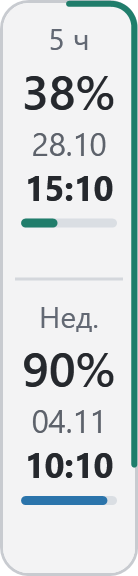
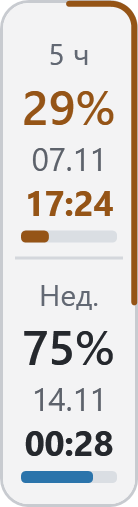
Fix ultra top spacing and refresh bilingual documentation for 1.7.6
Give bare ultra quota bars equal 8 px top and bottom insets. Preserve the reset extension height, dim-only stale presentation and compact layout.

Refresh the Russian and English README descriptions and add 20 separate production-rendered comparison images covering reset, credit and indicator combinations. Use current layout dimensions in the repeatable documentation renderer.

Validation: 64 focused native, diagnostic, server, update and package checks passed, as did standalone geometry checks. Both README files were rendered through GitHub Markdown and checked for loaded images. The release archive matches the user-tested installed build.

diff --git a/tools/render-previews.cs b/tools/render-previews.cs
@@ -3,6 +3,7 @@ using System.Collections.Generic;
 using System.Globalization;
 using System.IO;
 using System.Reflection;
+using System.Web.Script.Serialization;
 using System.Windows;
 using System.Windows.Controls;
 using System.Windows.Media;
@@ -19,7 +20,7 @@ class DocumentationPreviews {
   static void Save(BitmapSource image,string file){var encoder=new PngBitmapEncoder();encoder.Frames.Add(BitmapFrame.Create(image));using(var output=File.Create(file))encoder.Save(output);}
   static BitmapSource Render(Visual visual,double width,double height,int scale){var image=new RenderTargetBitmap((int)(width*scale),(int)(height*scale),96*scale,96*scale,PixelFormats.Pbgra32);image.Render(visual);return image;}
   static BitmapSource RenderElement(FrameworkElement visual,double width,double height){visual.Measure(new Size(width,height));visual.Arrange(new Rect(0,0,width,height));visual.UpdateLayout();return Render(visual,width,height,3);}
-  static object Row(string label,int value,string date,string time){return new Dictionary<string,object>{{"period",label},{"value",value+"%"},{"remaining",value},{"date",date},{"time",time},{"tone","normal"},{"marker",""}};}
+  static object Row(string label,int value,string date,string time){return new Dictionary<string,object>{{"period",label},{"value",value+"%"},{"remaining",value},{"date",date},{"time",time},{"tone",value<=30?"warning":"normal"},{"marker",""}};}
   static void Text(DrawingContext dc,string value,double x,double y,double size,Brush color,bool bold=false){var text=new FormattedText(value,CultureInfo.InvariantCulture,FlowDirection.LeftToRight,new Typeface(new FontFamily("Segoe UI"),FontStyles.Normal,bold?FontWeights.SemiBold:FontWeights.Normal,FontStretches.Normal),size,color,1);dc.DrawText(text,new Point(x,y));}
   static BitmapSource Context(BitmapSource panel,bool light){
     var visual=new DrawingVisual();using(var dc=visual.RenderOpen()){
@@ -30,7 +31,8 @@ class DocumentationPreviews {
       Text(dc,"Codex",72,28,23,text,true);Text(dc,"⌕",420,25,26,muted);Text(dc,"Новый чат",78,96,17,text);Text(dc,"Закреплённые",72,155,15,muted,true);Text(dc,"Проекты",72,205,15,muted,true);Text(dc,"Недавние",72,255,15,muted,true);
       Text(dc,"Рабочий чат",78,298,16,text);Text(dc,"Идеи проекта",78,339,16,text);Text(dc,"Заметки",78,380,16,text);
       dc.DrawLine(new Pen(Brush(light?"#DADBDE":"#34373C"),1),new Point(492,0),new Point(492,650));
-      dc.DrawImage(panel,new Rect(3,374,46,192));dc.DrawEllipse(Brush(light?"#CED6DD":"#647583"),null,new Point(26,610),12,12);Text(dc,"M",20,600,14,Brush("#FFFFFF"),true);
+      double panelHeight=panel.PixelHeight*46.0/panel.PixelWidth;
+      dc.DrawImage(panel,new Rect(3,566-panelHeight,46,panelHeight));dc.DrawEllipse(Brush(light?"#CED6DD":"#647583"),null,new Point(26,610),12,12);Text(dc,"M",20,600,14,Brush("#FFFFFF"),true);
       Text(dc,"Панель остаётся рядом с чатом",75,558,15,text,true);Text(dc,"Схема размещения · демонстрационные значения",75,590,11,muted);
     }return Render(visual,580,650,2);
   }
@@ -44,17 +46,31 @@ class DocumentationPreviews {
     }return Render(visual,1024,88,2);
   }
   [STAThread]static int Main(string[] args){try{
-    string output=Path.GetFullPath(args[0]),temporary=Path.GetFullPath(args[1]);Directory.CreateDirectory(output);Directory.CreateDirectory(temporary);
+    string output=Path.GetFullPath(args[0]),temporary=Path.GetFullPath(args[1]);Directory.CreateDirectory(output);Directory.CreateDirectory(temporary);Directory.CreateDirectory(Path.Combine(output,"panels"));int previews=0;
     foreach(string theme in new[]{"dark","light"}){
       BitmapSource full=null;
-      foreach(string mode in new[]{"full","compact","ultra"}){
-        string own=Path.Combine(temporary,theme+"-"+mode);Directory.CreateDirectory(own);File.WriteAllText(Path.Combine(own,"settings.json"),"{\"language\":\"ru\",\"themeMode\":\""+theme+"\",\"displayMode\":\""+mode+"\",\"indicatorMode\":\"both\",\"contourWindow\":\"short\",\"backgroundTransparency\":0,\"taskbarEnabled\":false,\"autoStartEnabled\":false}");
+      foreach(string content in new[]{"limits","resets","credits","both"})foreach(string mode in new[]{"full","compact","ultra"})foreach(string indicator in mode=="ultra"?new[]{"both"}:new[]{"both","outline"}){
+        bool selected=mode=="full"?(indicator=="both"?theme=="dark":theme=="light"):mode=="compact"?(indicator=="both"?theme=="light":theme=="dark"):((content=="limits"||content=="resets")?theme=="dark":theme=="light");
+        bool legacy=content=="limits"&&indicator=="both";
+        if(!selected&&!legacy)continue;
+        bool resets=content=="resets"||content=="both",credits=content=="credits"||content=="both";
+        string key=content+"-"+mode+"-"+indicator+"-"+theme,own=Path.Combine(temporary,key);Directory.CreateDirectory(own);
+        var settings=new Dictionary<string,object>{{"language","ru"},{"themeMode",theme},{"displayMode",mode},{"indicatorMode",indicator},{"contourWindow","short"},{"sidebarBackgroundOpacity",100},{"showResets",resets},{"showCredits",credits},{"taskbarEnabled",false},{"liveTrayIcon",false},{"autoStartEnabled",false}};
+        File.WriteAllText(Path.Combine(own,"settings.json"),new JavaScriptSerializer().Serialize(settings));
         var window=new OverlayWindow(Path.Combine(own,"state.json"),new ThemeResolver(Path.Combine(own,"app.toml"),delegate{return false;}),delegate{return false;},delegate{return null;});
-        try{Call(window,"StopTracking");Call(window,"Apply",new Dictionary<string,object>{{"rows",new object[]{Row("5 ч",38,"28.10","15:10"),Row("Нед.",90,"04.11","10:10")}}});Call(window,"SelectMode",mode);var image=RenderElement(Field<Grid>(window,"surface"),46,mode=="full"?192:mode=="compact"?100:32);Save(image,Path.Combine(output,(mode=="ultra"?"ultracompact":mode)+"-"+theme+".png"));if(mode=="full")full=image;}finally{window.Close();}
+        try{
+          Call(window,"StopTracking");
+          var resetData=new Dictionary<string,object>{{"availableCount",3},{"date","12.11.2026"},{"time","18:30"},{"daysRemaining",5},{"tone","warning"},{"stale",false}};
+          var creditData=new Dictionary<string,object>{{"balance","250"},{"display","250"},{"unlimited",false},{"hasCredits",true},{"tone","normal"},{"stale",false}};
+          Call(window,"Apply",new Dictionary<string,object>{{"rows",new object[]{Row("5 ч",29,"07.11","17:24"),Row("Нед.",75,"14.11","00:28")}},{"resets",resetData},{"credits",creditData}});Call(window,"SelectMode",mode);Call(window,"SelectFullProgress",indicator);
+          var image=RenderElement(Field<Grid>(window,"surface"),46,Layout.HeightForMode(mode,resets,credits));
+          if(selected){Save(image,Path.Combine(output,"panels",key+".png"));previews++;}
+          if(legacy){Save(image,Path.Combine(output,(mode=="ultra"?"ultracompact":mode)+"-"+theme+".png"));if(mode=="full")full=image;}
+        }finally{window.Close();}
       }
       var taskbar=new TaskbarWindow(delegate{return null;});try{taskbar.Configure(false,"right",theme=="light"?ThemePalette.Light:ThemePalette.Dark,50);taskbar.ApplyRows("38%","90%","normal","normal",false);var image=RenderElement(Field<Border>(taskbar,"surface"),48,32);Save(Taskbar(image,theme=="light"),Path.Combine(output,"taskbar-"+theme+".png"));}finally{taskbar.Dispose();}
       Save(Context(full,theme=="light"),Path.Combine(output,"sidebar-"+theme+".png"));
     }
-    Console.WriteLine("Rendered 10 documentation previews from production controls using isolated demonstration data.");return 0;
+    Console.WriteLine("Rendered "+previews+" comparison panels and 10 placement/legacy previews from production controls using isolated demonstration data.");return 0;
   }catch(Exception error){Console.Error.WriteLine(error);return 1;}}
 }

diff --git a/overlay/Layout.cs b/overlay/Layout.cs
@@ -61,9 +61,9 @@ namespace QuotaOverlay {
       foreach(var span in spans){if(span.Top-cursor>=result.Height){double candidate=Math.Max(cursor,Math.Min(span.Top-result.Height,desired)),difference=Math.Abs(candidate-desired);if(difference<distance){distance=difference;best=candidate;}}cursor=Math.Max(cursor,span.Bottom);}
       result.Visible=!Double.IsPositiveInfinity(distance);if(result.Visible)result.Y=top+best;return result;
     }
-    public const double PanelWidth=46, PanelHeight=169, CompactHeight=115, UltraHeight=29, BottomClearance=110;
+    public const double PanelWidth=46, PanelHeight=169, CompactHeight=115, UltraHeight=32, BottomClearance=110;
     public const double StaleHeaderHeight=10;
-    public static double HeaderHeight(string mode) {return mode=="ultra"?0:StaleHeaderHeight;}
+    public static double HeaderHeight(string mode) {return mode=="ultra"?3:StaleHeaderHeight;}
     public static double ResetsHeight(string mode) {return mode=="ultra"?22:mode=="compact"?41:64;}
     public static double CreditsHeight(string mode) {return mode=="ultra"?24:mode=="compact"?38:40;}
     public static double HeightForMode(string mode,bool showResets=false,bool showCredits=false,int staleRows=0) {

diff --git a/tests/overlay-native.cs b/tests/overlay-native.cs
@@ -748,6 +748,7 @@ class OverlayNativeTest {
       }
       var marker=Field<TextBlock[]>(window,"markers")[1];if(marker.Visibility==Visibility.Visible)last=Math.Max(last,ContentBounds(marker,panel).Bottom);
       Check(Math.Abs(panel.ActualHeight-last-8)<.05,"last visible content must leave exactly 8 DIP below it: "+mode+"/"+language+"/stale="+stale+", actual="+(panel.ActualHeight-last));
+      if(mode=="ultra"&&!resets&&!credits)Check(Math.Abs(ContentBounds(bars[0],panel).Top-8)<.05,"bare ultra bars need the same 8 DIP clearance above and below, away from the rounded border; actual top="+ContentBounds(bars[0],panel).Top);
       if(mode!="ultra") {
         Rect separator=ContentBounds(Field<Border>(window,"divider"),panel);
         double gap=separator.Top-ContentBounds(bars[0],panel).Bottom;

diff --git a/overlay/ProductInfo.cs b/overlay/ProductInfo.cs
@@ -3,7 +3,7 @@ using System.Reflection;
 [assembly: AssemblyTitle("ChatGPT Limit Panel")]
 [assembly: AssemblyProduct("ChatGPT Limit Panel")]
 [assembly: AssemblyDescription("Codex / Work limit monitor for desktop ChatGPT")]
-[assembly: AssemblyVersion("1.7.5.0")]
-[assembly: AssemblyFileVersion("1.7.5.0")]
+[assembly: AssemblyVersion("1.7.6.0")]
+[assembly: AssemblyFileVersion("1.7.6.0")]
 
-[assembly: AssemblyInformationalVersion("1.7.5")]
+[assembly: AssemblyInformationalVersion("1.7.6")]

diff --git a/README.md b/README.md
@@ -4,7 +4,7 @@
 
 <img src="plugins/chatgpt-limit-panel/assets/chatgpt-limit-panel.png" width="88" height="88" alt="ChatGPT Limit Panel">
 
-Панель для Windows показывает оставшиеся **5-часовой и недельный лимиты Codex / Work** и время их сброса. Она располагается поверх окна настольного ChatGPT; по желанию можно включить индикатор на панели задач и живую иконку в трее. В режиме Instant отображается тот же счётчик Codex / Work.
+Панель лимитов **Codex / Work** для настольного ChatGPT в Windows. Показывает остаток 5-часового и недельного лимитов, время их сброса, доступные сбросы с датой истечения и остаток кредитов Codex. Три размера панели, светлая и тёмная темы, индикаторы на панели задач и в трее.
 
 **[Скачать для Windows x64](https://github.com/MrBogomoll/chatgpt-limit-panel/releases/latest)** · [Обновление](UPGRADING.md) · [Полное удаление](UNINSTALL.md) · [Все релизы](https://github.com/MrBogomoll/chatgpt-limit-panel/releases)
 
@@ -12,24 +12,40 @@
 
 ## Возможности
 
-- **ПКМ → Содержимое панели → Показывать сбросы** включает блок над лимитами: в полном виде — количество, дата и время ближайшего истечения; в компактном — количество и дата; в ультракомпактном — плашка `↻ 3` с количеством. Один переключатель действует во всех режимах и сохраняется. До 10 дней включительно блок оранжевый, до 3 дней — красный. Просмотр не расходует сбросы; неизвестные и устаревшие данные помечаются отдельно. Подменю «Доступные сбросы» перечисляет каждый сброс по ближайшему истечению с датой и временем.
-- **ПКМ → Содержимое панели → Показывать кредиты** включает отдельный остаток кредитов Codex между сбросами и лимитами. Это не денежный баланс API: текущий источник его не предоставляет. В полном и компактном видах над остатком стоит подпись «Кредиты», в ультракомпактном отображается только число; точное значение доступно при наведении. В полном и компактном видах перед основными лимитами проходит более светлый разделитель толщиной 2 px; в ультракомпактном остаётся тонкая линия.
-- Остаток лимитов и время сброса из Codex; данные обновляются примерно раз в 30 секунд. Устаревшие и неизвестные значения помечаются отдельно.
-- Полный, компактный и ультракомпактный виды; ЛКМ переключает их, ПКМ открывает настройки.
-- Закрепление на боковой полосе или свободное перетаскивание внутри окна ChatGPT. Положение сохраняется; пункт «Расположение по умолчанию» возвращает панель к боковой полосе.
-- Независимая непрозрачность фона панели и индикатора на панели задач. Установи **100% непрозрачности фона** панели, чтобы текст переписки не просвечивал.
-- Полоски и контур показывают остаток; для контура можно выбрать 5-часовой или недельный лимит. При остатке ≤30% используется приглушённый оранжевый, при ≤10% — красный. В ультракомпактном виде две полоски видны всегда.
-- Индикатор на панели задач с процентами и выбираемым расположением; живая иконка в трее с теми же двумя лимитами включается отдельно.
-- Тёмная, светлая и автоматическая темы; русский и английский языки. Настройки сохраняются.
-
-
+- **Лимиты Codex / Work:** остаток за 5 часов и за неделю, даты и время сброса; обновление примерно раз в 30 секунд. В режиме Instant отображаются те же счётчики.
+- **Доступные сбросы:** количество и ближайшее истечение на панели; список всех сбросов с датами и временем в подменю. За 10 дней до истечения блок становится оранжевым, за 3 дня — красным. Просмотр не расходует сбросы.
+- **Кредиты Codex:** отдельный остаток между сбросами и лимитами. Сбросы и кредиты включаются независимо. Денежный баланс API текущий источник не предоставляет.
+- **Три размера:** полный, компактный и ультракомпактный; ЛКМ переключает виды, ПКМ открывает настройки. При нехватке места панель автоматически уменьшается.
+- **Полоски и контур:** можно выбрать сочетание индикаторов и лимит для контура. При остатке ≤30% используется оранжевый, при ≤10% — красный. В ультракомпакте обе полоски остаются всегда; устаревшие данные бледнеют.
+- **Расположение:** закрепление на боковой полосе или свободное перетаскивание внутри ChatGPT. Положение сохраняется и сбрасывается через меню.
+- **Панель задач и трей:** перетаскиваемый индикатор с процентами и отдельно включаемая живая иконка с двумя лимитами.
+- **Оформление:** тёмная, светлая и автоматическая темы, русский и английский языки, независимая непрозрачность фона панели и индикатора на панели задач. Настройки сохраняются.
 
 ## Как выглядит
 
-| Тема | Полный | Компактный | Ультракомпактный |
-| :--- | :---: | :---: | :---: |
-| Тёмная | <img src="images/full-dark.png" width="80" alt="Полный тёмный"> | <img src="images/compact-dark.png" width="80" alt="Компактный тёмный"> | <img src="images/ultracompact-dark.png" width="80" alt="Ультракомпактный тёмный"> |
-| Светлая | <img src="images/full-light.png" width="80" alt="Полный светлый"> | <img src="images/compact-light.png" width="80" alt="Компактный светлый"> | <img src="images/ultracompact-light.png" width="80" alt="Ультракомпактный светлый"> |
+Сбросы и кредиты можно включать независимо через **ПКМ → Содержимое панели**. Ниже — отдельные изображения с демонстрационными данными.
+
+### Полный вид
+
+| Индикатор | Только лимиты | Со сбросами | С кредитами | Всё вместе |
+| :--- | :---: | :---: | :---: | :---: |
+| Полоски и контур | <img src="images/panels/limits-full-both-dark.png" width="64" alt="Только лимиты, full, both, dark"> | <img src="images/panels/resets-full-both-dark.png" width="64" alt="Со сбросами, full, both, dark"> | <img src="images/panels/credits-full-both-dark.png" width="64" alt="С кредитами, full, both, dark"> | <img src="images/panels/both-full-both-dark.png" width="64" alt="Всё вместе, full, both, dark"> |
+| Только контур | <img src="images/panels/limits-full-outline-light.png" width="64" alt="Только лимиты, full, outline, light"> | <img src="images/panels/resets-full-outline-light.png" width="64" alt="Со сбросами, full, outline, light"> | <img src="images/panels/credits-full-outline-light.png" width="64" alt="С кредитами, full, outline, light"> | <img src="images/panels/both-full-outline-light.png" width="64" alt="Всё вместе, full, outline, light"> |
+
+### Компактный вид
+
+| Индикатор | Только лимиты | Со сбросами | С кредитами | Всё вместе |
+| :--- | :---: | :---: | :---: | :---: |
+| Полоски и контур | <img src="images/panels/limits-compact-both-light.png" width="64" alt="Только лимиты, compact, both, light"> | <img src="images/panels/resets-compact-both-light.png" width="64" alt="Со сбросами, compact, both, light"> | <img src="images/panels/credits-compact-both-light.png" width="64" alt="С кредитами, compact, both, light"> | <img src="images/panels/both-compact-both-light.png" width="64" alt="Всё вместе, compact, both, light"> |
+| Только контур | <img src="images/panels/limits-compact-outline-dark.png" width="64" alt="Только лимиты, compact, outline, dark"> | <img src="images/panels/resets-compact-outline-dark.png" width="64" alt="Со сбросами, compact, outline, dark"> | <img src="images/panels/credits-compact-outline-dark.png" width="64" alt="С кредитами, compact, outline, dark"> | <img src="images/panels/both-compact-outline-dark.png" width="64" alt="Всё вместе, compact, outline, dark"> |
+
+### Ультракомпактный вид
+
+Две полоски отображаются всегда; дополнительные блоки показывают только количество сбросов и остаток кредитов.
+
+| Только лимиты | Со сбросами | С кредитами | Всё вместе |
+| :---: | :---: | :---: | :---: |
+| <img src="images/panels/limits-ultra-both-dark.png" width="64" alt="Только лимиты, ultra, both, dark"> | <img src="images/panels/resets-ultra-both-dark.png" width="64" alt="Со сбросами, ultra, both, dark"> | <img src="images/panels/credits-ultra-both-light.png" width="64" alt="С кредитами, ultra, both, light"> | <img src="images/panels/both-ultra-both-light.png" width="64" alt="Всё вместе, ultra, both, light"> |
 
 ### Рядом с чатом
 
@@ -64,7 +80,7 @@
 
 Панель проверена на Windows 11, включая Start11 и расположение рядом с NetWorx. Совместимость с Windows 10 пока не подтверждена. Если загрузка ZIP недоступна или возникла ошибка, укажи версию Windows, клиента и описание в [Issues](https://github.com/MrBogomoll/chatgpt-limit-panel/issues).
 
-Панель запускает локальный Codex App Server и запрашивает у него лимиты текущего аккаунта. Настройки и состояние сохраняются локально в `%LOCALAPPDATA%\ChatGPTLimitPanel` (при наличии старых данных может использоваться `ChatGPTQuotaOverlay`); при проверке обновлений программа обращается к GitHub API. Программа использует текущий локальный вход Codex. Авторизация и настройки пользователя не входят в архив. Проект независимый и не является официальным продуктом OpenAI. [Контрольная сумма ZIP 1.7.5](https://github.com/MrBogomoll/chatgpt-limit-panel/releases/download/v1.7.5/chatgpt-limit-panel-1.7.5-windows-x64.zip.sha256).
+Панель запускает локальный Codex App Server и запрашивает у него лимиты текущего аккаунта. Настройки и состояние сохраняются локально в `%LOCALAPPDATA%\ChatGPTLimitPanel` (при наличии старых данных может использоваться `ChatGPTQuotaOverlay`); при проверке обновлений программа обращается к GitHub API. Программа использует текущий локальный вход Codex. Авторизация и настройки пользователя не входят в архив. Проект независимый и не является официальным продуктом OpenAI. [Контрольная сумма ZIP 1.7.6](https://github.com/MrBogomoll/chatgpt-limit-panel/releases/download/v1.7.6/chatgpt-limit-panel-1.7.6-windows-x64.zip.sha256).
 
 Сообщение об уязвимостях: [политика безопасности](SECURITY.md).
 

diff --git a/README.en.md b/README.en.md
@@ -1,14 +1,10 @@
 # ChatGPT Limit Panel
 
-**Right-click → Panel content → Show resets** toggles a block above the quotas: count, expiration date and time in full mode; count and date in compact; a small `↻ 3` count badge in ultra. The shared visibility setting persists across modes and restarts. Expiration is orange at 10 days or less and red at 3 days or less. Viewing does not redeem a reset; missing and stale data are labelled explicitly. The Available resets submenu lists each reset in expiration order with its date and time.
-
-**Right-click → Panel content → Show credits** toggles the Codex credit balance between resets and quotas. It is separate from API billing, which this data source does not provide. The Credits label appears above the balance in full and compact modes; ultra shows only the number. Hover for the exact value. A lighter 2 px divider separates these extras from the main quotas in full and compact modes; ultra keeps a thin line.
-
 [Русский](README.md)
 
 <img src="plugins/chatgpt-limit-panel/assets/chatgpt-limit-panel.png" width="88" height="88" alt="ChatGPT Limit Panel">
 
-A Windows panel showing your remaining **5-hour and weekly Codex / Work limits** and their reset times. It appears over the desktop ChatGPT window; a taskbar indicator and live tray icon are optional. Instant displays the same Codex / Work counters.
+A **Codex / Work** limit panel for desktop ChatGPT on Windows. Shows remaining 5-hour and weekly quotas, reset times, available resets with expiration dates, and the Codex credit balance. Three panel sizes, light and dark themes, plus taskbar and tray indicators.
 
 **[Download for Windows x64](https://github.com/MrBogomoll/chatgpt-limit-panel/releases/latest)** · [Update](UPGRADING.md) · [Uninstall](UNINSTALL.md) · [All releases](https://github.com/MrBogomoll/chatgpt-limit-panel/releases)
 
@@ -16,22 +12,40 @@ Download the built application ZIP under **Assets**. GitHub's **Source code** ar
 
 ## Features
 
-- Remaining limits and reset times from Codex, refreshed about every 30 seconds. Stale and unknown values are marked separately.
-- Full, compact and ultracompact views; left-click cycles views and right-click opens settings.
-- Pin to the sidebar or drag freely inside the ChatGPT window. The position is saved; Reset position returns the panel to the sidebar area.
-- Independent panel background opacity and taskbar indicator transparency. Set panel **background opacity to 100%** to prevent conversation text from showing through.
-- Bars and an outline show remaining quota; choose the 5-hour or weekly limit for the outline. Muted orange indicates ≤30% remaining, red ≤10%. Ultracompact always keeps both bars.
-- An optional taskbar indicator with percentages and selectable placement, and an optional live tray icon showing the same two limits.
-- Dark, light and automatic themes; Russian and English languages. Preferences persist across restarts.
-
-
+- **Codex / Work limits:** remaining 5-hour and weekly quotas with reset dates and times, refreshed about every 30 seconds. Instant shows the same counters.
+- **Available resets:** a count and nearest expiration on the panel, plus a submenu listing every expiration date and time. The block turns orange at 10 days or less and red at 3 days or less. Viewing does not redeem a reset.
+- **Codex credits:** a separate balance between resets and quotas. Reset and credit blocks can be toggled independently. The current data source does not provide the API billing balance.
+- **Three sizes:** full, compact and ultracompact. Left-click cycles views; right-click opens settings. The panel automatically shrinks when space is limited.
+- **Bars and outline:** choose the indicator combination and which quota drives the outline. Orange means ≤30% remaining; red means ≤10%. Ultracompact always keeps both bars, and stale data is dimmed.
+- **Placement:** pin to the sidebar or drag freely inside ChatGPT. Positions persist and can be reset from the menu.
+- **Taskbar and tray:** a draggable percentage indicator and a separately enabled live tray icon showing both quotas.
+- **Appearance:** dark, light and automatic themes, Russian and English, and independent panel background opacity and taskbar indicator transparency. Preferences persist.
 
 ## Preview
 
-| Theme | Full | Compact | Ultracompact |
-| :--- | :---: | :---: | :---: |
-| Dark | <img src="images/full-dark.png" width="80" alt="Full dark"> | <img src="images/compact-dark.png" width="80" alt="Compact dark"> | <img src="images/ultracompact-dark.png" width="80" alt="Ultracompact dark"> |
-| Light | <img src="images/full-light.png" width="80" alt="Full light"> | <img src="images/compact-light.png" width="80" alt="Compact light"> | <img src="images/ultracompact-light.png" width="80" alt="Ultracompact light"> |
+Resets and credits can be toggled independently through **Right-click → Panel content**. Each example below is a separate image with demonstration data.
+
+### Full view
+
+| Indicator | Limits only | With resets | With credits | Both blocks |
+| :--- | :---: | :---: | :---: | :---: |
+| Bars and outline | <img src="images/panels/limits-full-both-dark.png" width="64" alt="Limits only, full, both, dark"> | <img src="images/panels/resets-full-both-dark.png" width="64" alt="With resets, full, both, dark"> | <img src="images/panels/credits-full-both-dark.png" width="64" alt="With credits, full, both, dark"> | <img src="images/panels/both-full-both-dark.png" width="64" alt="Both blocks, full, both, dark"> |
+| Outline only | <img src="images/panels/limits-full-outline-light.png" width="64" alt="Limits only, full, outline, light"> | <img src="images/panels/resets-full-outline-light.png" width="64" alt="With resets, full, outline, light"> | <img src="images/panels/credits-full-outline-light.png" width="64" alt="With credits, full, outline, light"> | <img src="images/panels/both-full-outline-light.png" width="64" alt="Both blocks, full, outline, light"> |
+
+### Compact view
+
+| Indicator | Limits only | With resets | With credits | Both blocks |
+| :--- | :---: | :---: | :---: | :---: |
+| Bars and outline | <img src="images/panels/limits-compact-both-light.png" width="64" alt="Limits only, compact, both, light"> | <img src="images/panels/resets-compact-both-light.png" width="64" alt="With resets, compact, both, light"> | <img src="images/panels/credits-compact-both-light.png" width="64" alt="With credits, compact, both, light"> | <img src="images/panels/both-compact-both-light.png" width="64" alt="Both blocks, compact, both, light"> |
+| Outline only | <img src="images/panels/limits-compact-outline-dark.png" width="64" alt="Limits only, compact, outline, dark"> | <img src="images/panels/resets-compact-outline-dark.png" width="64" alt="With resets, compact, outline, dark"> | <img src="images/panels/credits-compact-outline-dark.png" width="64" alt="With credits, compact, outline, dark"> | <img src="images/panels/both-compact-outline-dark.png" width="64" alt="Both blocks, compact, outline, dark"> |
+
+### Ultracompact view
+
+Both quota bars are always visible; optional blocks show only the reset count and credit balance.
+
+| Limits only | With resets | With credits | Both blocks |
+| :---: | :---: | :---: | :---: |
+| <img src="images/panels/limits-ultra-both-dark.png" width="64" alt="Limits only, ultra, both, dark"> | <img src="images/panels/resets-ultra-both-dark.png" width="64" alt="With resets, ultra, both, dark"> | <img src="images/panels/credits-ultra-both-light.png" width="64" alt="With credits, ultra, both, light"> | <img src="images/panels/both-ultra-both-light.png" width="64" alt="Both blocks, ultra, both, light"> |
 
 ### Beside the chat
 
@@ -66,7 +80,7 @@ With the taskbar indicator **or** live tray icon enabled, the monitor can refres
 
 The panel has been checked on Windows 11, including Start11 and placement next to NetWorx. Windows 10 compatibility is not yet confirmed. If ZIP import is unavailable or an error occurs, include the Windows version, client version and details in [Issues](https://github.com/MrBogomoll/chatgpt-limit-panel/issues).
 
-The program uses your existing local Codex sign-in. User credentials and settings are not included in the archive. This is an independent project, not an official OpenAI product. [ZIP checksum for 1.7.5](https://github.com/MrBogomoll/chatgpt-limit-panel/releases/download/v1.7.5/chatgpt-limit-panel-1.7.5-windows-x64.zip.sha256).
+The program uses your existing local Codex sign-in. User credentials and settings are not included in the archive. This is an independent project, not an official OpenAI product. [ZIP checksum for 1.7.6](https://github.com/MrBogomoll/chatgpt-limit-panel/releases/download/v1.7.6/chatgpt-limit-panel-1.7.6-windows-x64.zip.sha256).
 
 ## Data and security
 

diff --git a/CHANGELOG.md b/CHANGELOG.md
@@ -1,5 +1,10 @@
 # Changes
 
+## 1.7.6 — 2026-11-07
+
+- Give the bare ultracompact quota bars matching 8 px top and bottom insets so the upper bar stays clear of the rounded frame. Keep the panel compact and preserve optional reset block dimensions.
+- Refresh the Russian and English descriptions and render separate comparison images for reset, credit and indicator combinations.
+
 ## 1.7.5 — 2026-11-07
 
 - Remove the stale label and its reserved space from ultra mode. Keep stale data dimmed and retain the shared warning in full/compact modes.

diff --git a/plugins/chatgpt-limit-panel/README.md b/plugins/chatgpt-limit-panel/README.md
@@ -1,4 +1,4 @@
-# ChatGPT Limit Panel 1.7.5
+# ChatGPT Limit Panel 1.7.6
 
 «Показывать сбросы» в меню панели и трея включает блок над лимитами. Полный вид: количество, дата и время; компактный: количество и дата; ультракомпактный: `↻ 3`. Выбор сохраняется во всех режимах.
 
